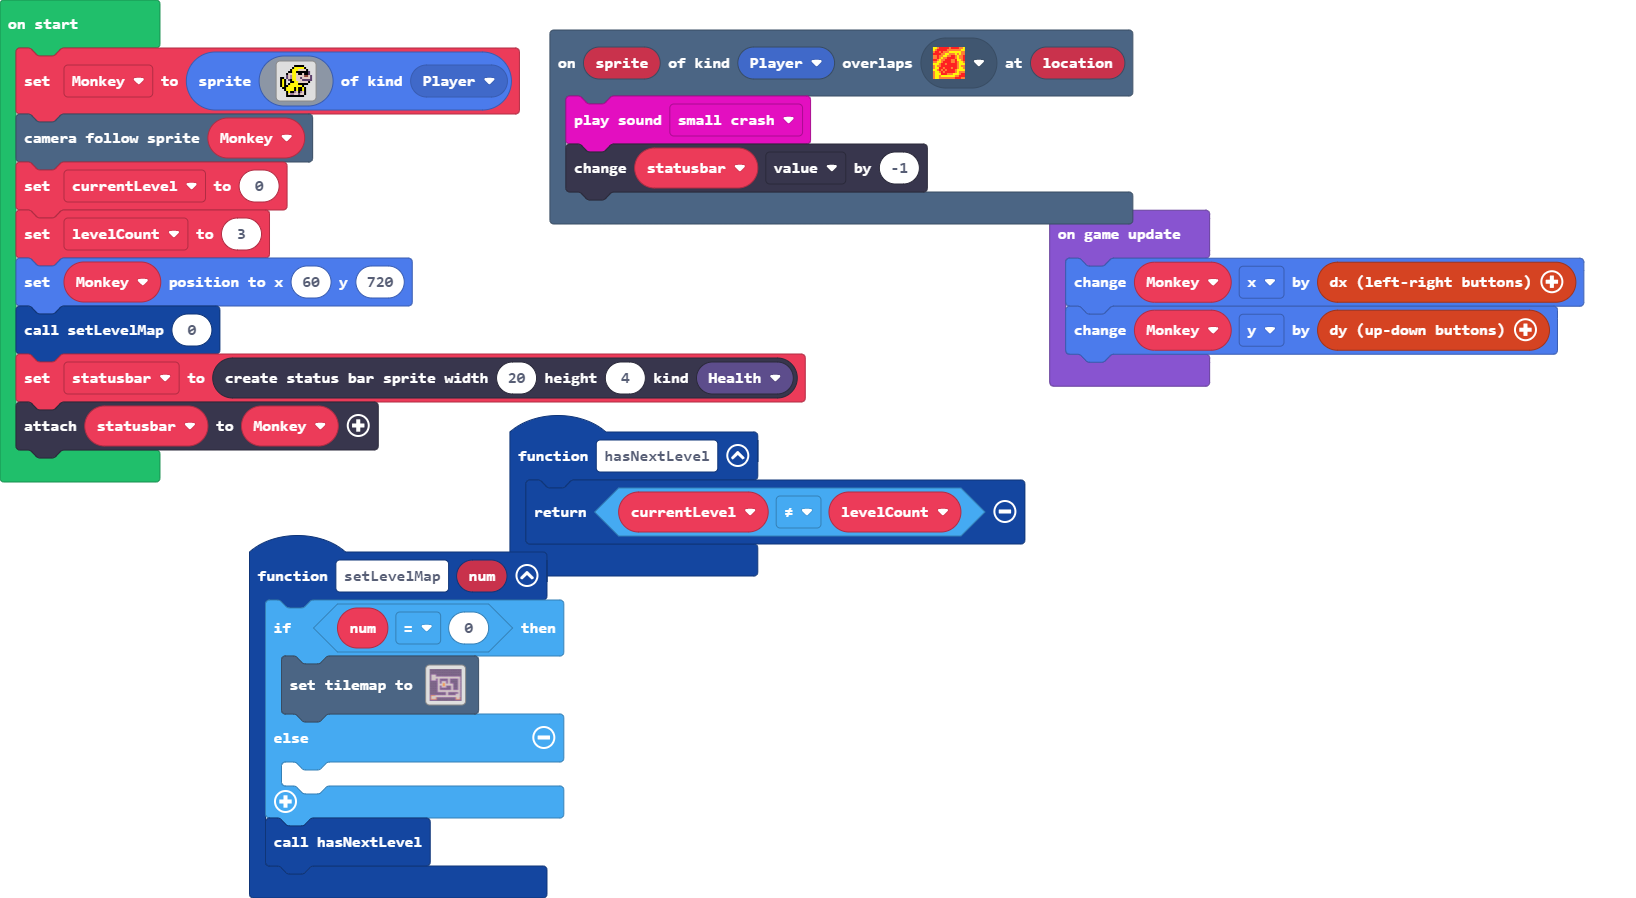
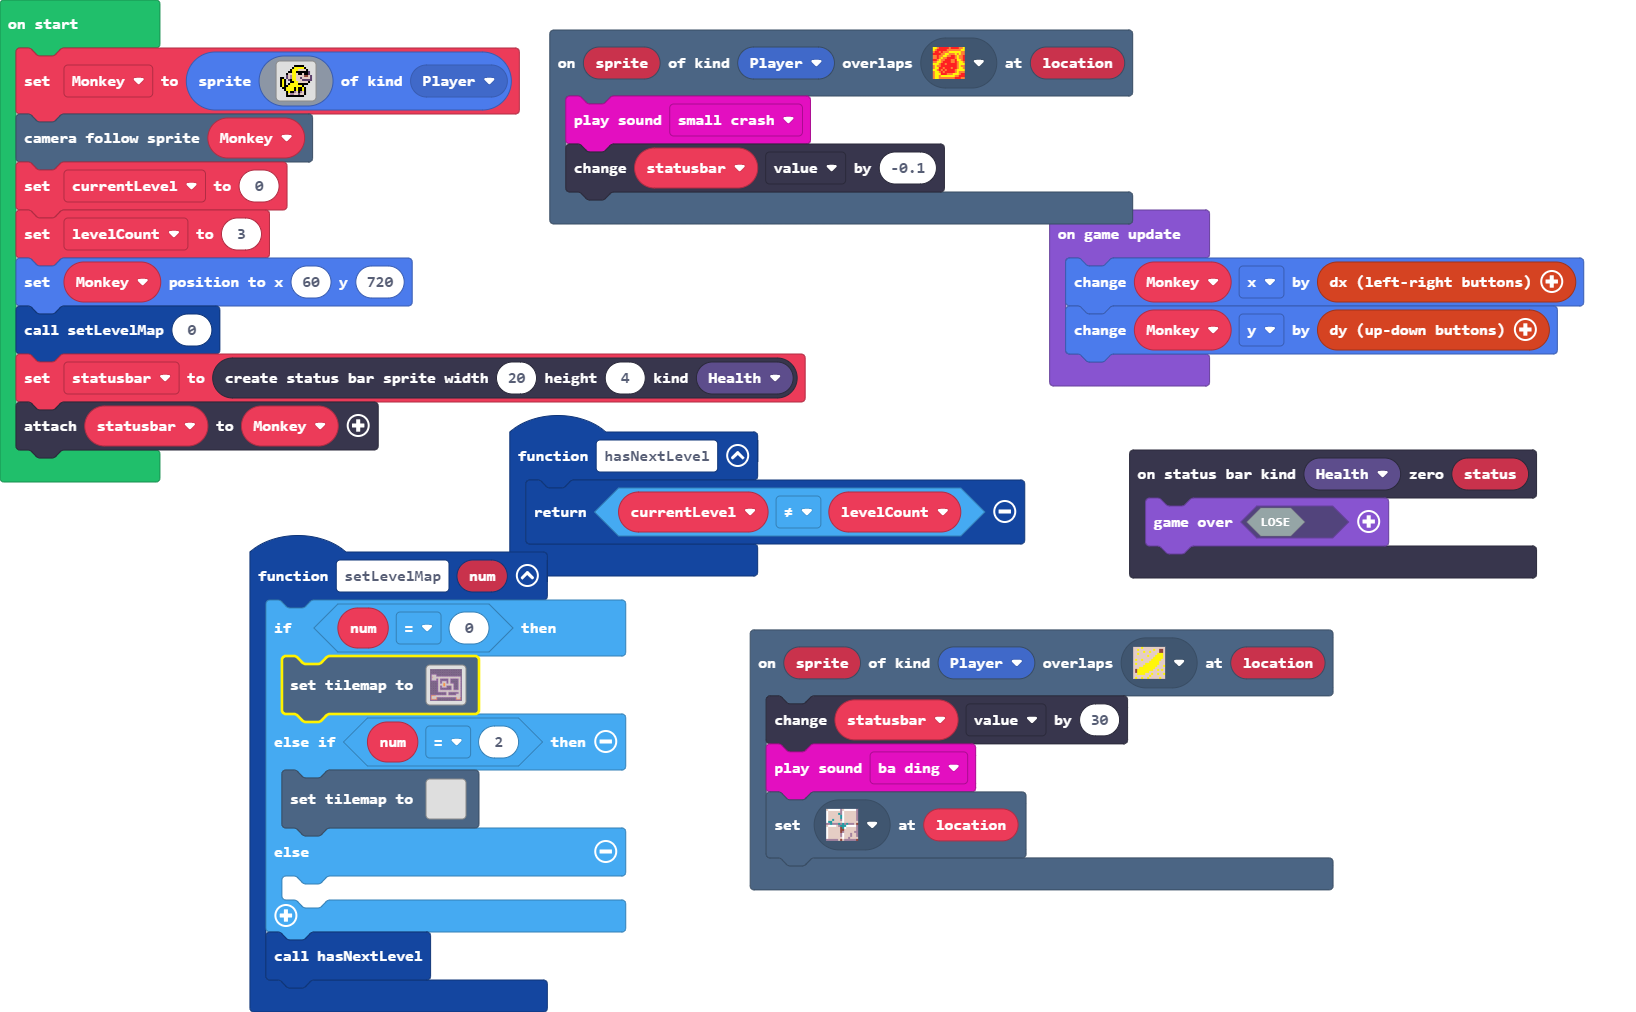
Update main.blocks, main.ts, tilemap.g.jres, tilemap.g.ts

diff --git a/tilemap.g.ts b/tilemap.g.ts
@@ -4,11 +4,34 @@ namespace myTiles {
     export const transparency16 = image.ofBuffer(hex``);
     //% fixedInstance jres blockIdentity=images._tile
     export const tile1 = image.ofBuffer(hex``);
+    //% fixedInstance jres blockIdentity=images._tile
+    export const tile2 = image.ofBuffer(hex``);
+    //% fixedInstance jres blockIdentity=images._tile
+    export const tile3 = image.ofBuffer(hex``);
 
     helpers._registerFactory("tilemap", function(name: string) {
         switch(helpers.stringTrim(name)) {
+            case "level2":
+            case "level2":return tiles.createTilemap(hex`1000100000000000000000000000000000000000000000000000000000000000000000000000000000000000000000000000000000000000000000000000000000000000000000000000000000000000000000000000000000000000000000000000000000000000000000000000000000000000000000000000000000000000000000000000000000000000000000000000000000000000000000000000000000000000000000000000000000000000000000000000000000000000000000000000000000000000000000000000000000000000000000000000000000000000000000000000000000000000000000000000000000000000000000000000000000000000`, img`
+. . . . . . . . . . . . . . . . 
+. . . . . . . . . . . . . . . . 
+. . . . . . . . . . . . . . . . 
+. . . . . . . . . . . . . . . . 
+. . . . . . . . . . . . . . . . 
+. . . . . . . . . . . . . . . . 
+. . . . . . . . . . . . . . . . 
+. . . . . . . . . . . . . . . . 
+. . . . . . . . . . . . . . . . 
+. . . . . . . . . . . . . . . . 
+. . . . . . . . . . . . . . . . 
+. . . . . . . . . . . . . . . . 
+. . . . . . . . . . . . . . . . 
+. . . . . . . . . . . . . . . . 
+. . . . . . . . . . . . . . . . 
+. . . . . . . . . . . . . . . . 
+`, [myTiles.transparency16], TileScale.Sixteen);
             case "level1":
[2 lines of base64/hex data omitted]
 22222222222222222222222222222222222222222222222222
 22222222222222222222222222222222222222222222222222
 22222222222222222222222222222222222222222222222222
@@ -59,7 +82,7 @@ namespace myTiles {
 22.........222222222222222222222222222222.......22
 22222222222222222222222222222222222222222222222222
 22222222222222222222222222222222222222222222222222
-`, [myTiles.transparency16,sprites.dungeon.floorLightMoss,sprites.dungeon.purpleOuterNorth0,sprites.dungeon.purpleOuterNorthEast,sprites.dungeon.purpleOuterEast0,sprites.dungeon.purpleOuterWest0,sprites.dungeon.purpleOuterSouth1,sprites.dungeon.purpleOuterSouthWest,sprites.dungeon.purpleOuterNorthWest,sprites.dungeon.purpleOuterSouthEast,sprites.dungeon.purpleInnerSouthEast,sprites.dungeon.purpleInnerNorthEast,sprites.dungeon.purpleInnerSouthWest,sprites.dungeon.purpleInnerNorthWest,sprites.dungeon.purpleOuterEast1,sprites.dungeon.hazardLava0,sprites.dungeon.darkGroundNorthWest1,myTiles.tile1], TileScale.Sixteen);
+`, [myTiles.transparency16,sprites.dungeon.floorLightMoss,sprites.dungeon.purpleOuterNorth0,sprites.dungeon.purpleOuterNorthEast,sprites.dungeon.purpleOuterEast0,sprites.dungeon.purpleOuterWest0,sprites.dungeon.purpleOuterSouth1,sprites.dungeon.purpleOuterSouthWest,sprites.dungeon.purpleOuterNorthWest,sprites.dungeon.purpleOuterSouthEast,sprites.dungeon.purpleInnerSouthEast,sprites.dungeon.purpleInnerNorthEast,sprites.dungeon.purpleInnerSouthWest,sprites.dungeon.purpleInnerNorthWest,sprites.dungeon.purpleOuterEast1,sprites.dungeon.hazardLava0,sprites.dungeon.darkGroundNorthWest1,myTiles.tile1,myTiles.tile2,myTiles.tile3], TileScale.Sixteen);
         }
         return null;
     })
@@ -69,6 +92,10 @@ namespace myTiles {
             case "transparency16":return transparency16;
             case "myTile":
             case "tile1":return tile1;
+            case "myTile0":
+            case "tile2":return tile2;
+            case "myTile1":
+            case "tile3":return tile3;
         }
         return null;
     })

diff --git a/main.ts b/main.ts
@@ -1,10 +1,20 @@
+scene.onOverlapTile(SpriteKind.Player, assets.tile`myTile`, function (sprite, location) {
+    statusbar.value += 30
+    music.baDing.play()
+    tiles.setTileAt(location, sprites.dungeon.floorLightMoss)
+})
 scene.onOverlapTile(SpriteKind.Player, sprites.dungeon.hazardLava0, function (sprite, location) {
     music.smallCrash.play()
-    statusbar.value += -1
+    statusbar.value += -0.1
+})
+statusbars.onZero(StatusBarKind.Health, function (status) {
+    game.over(false)
 })
 function setLevelMap (num: number) {
     if (num == 0) {
         tiles.setTilemap(tilemap`level1`)
+    } else if (num == 2) {
+        tiles.setTilemap(tilemap`level2`)
     } else {
     	
     }
